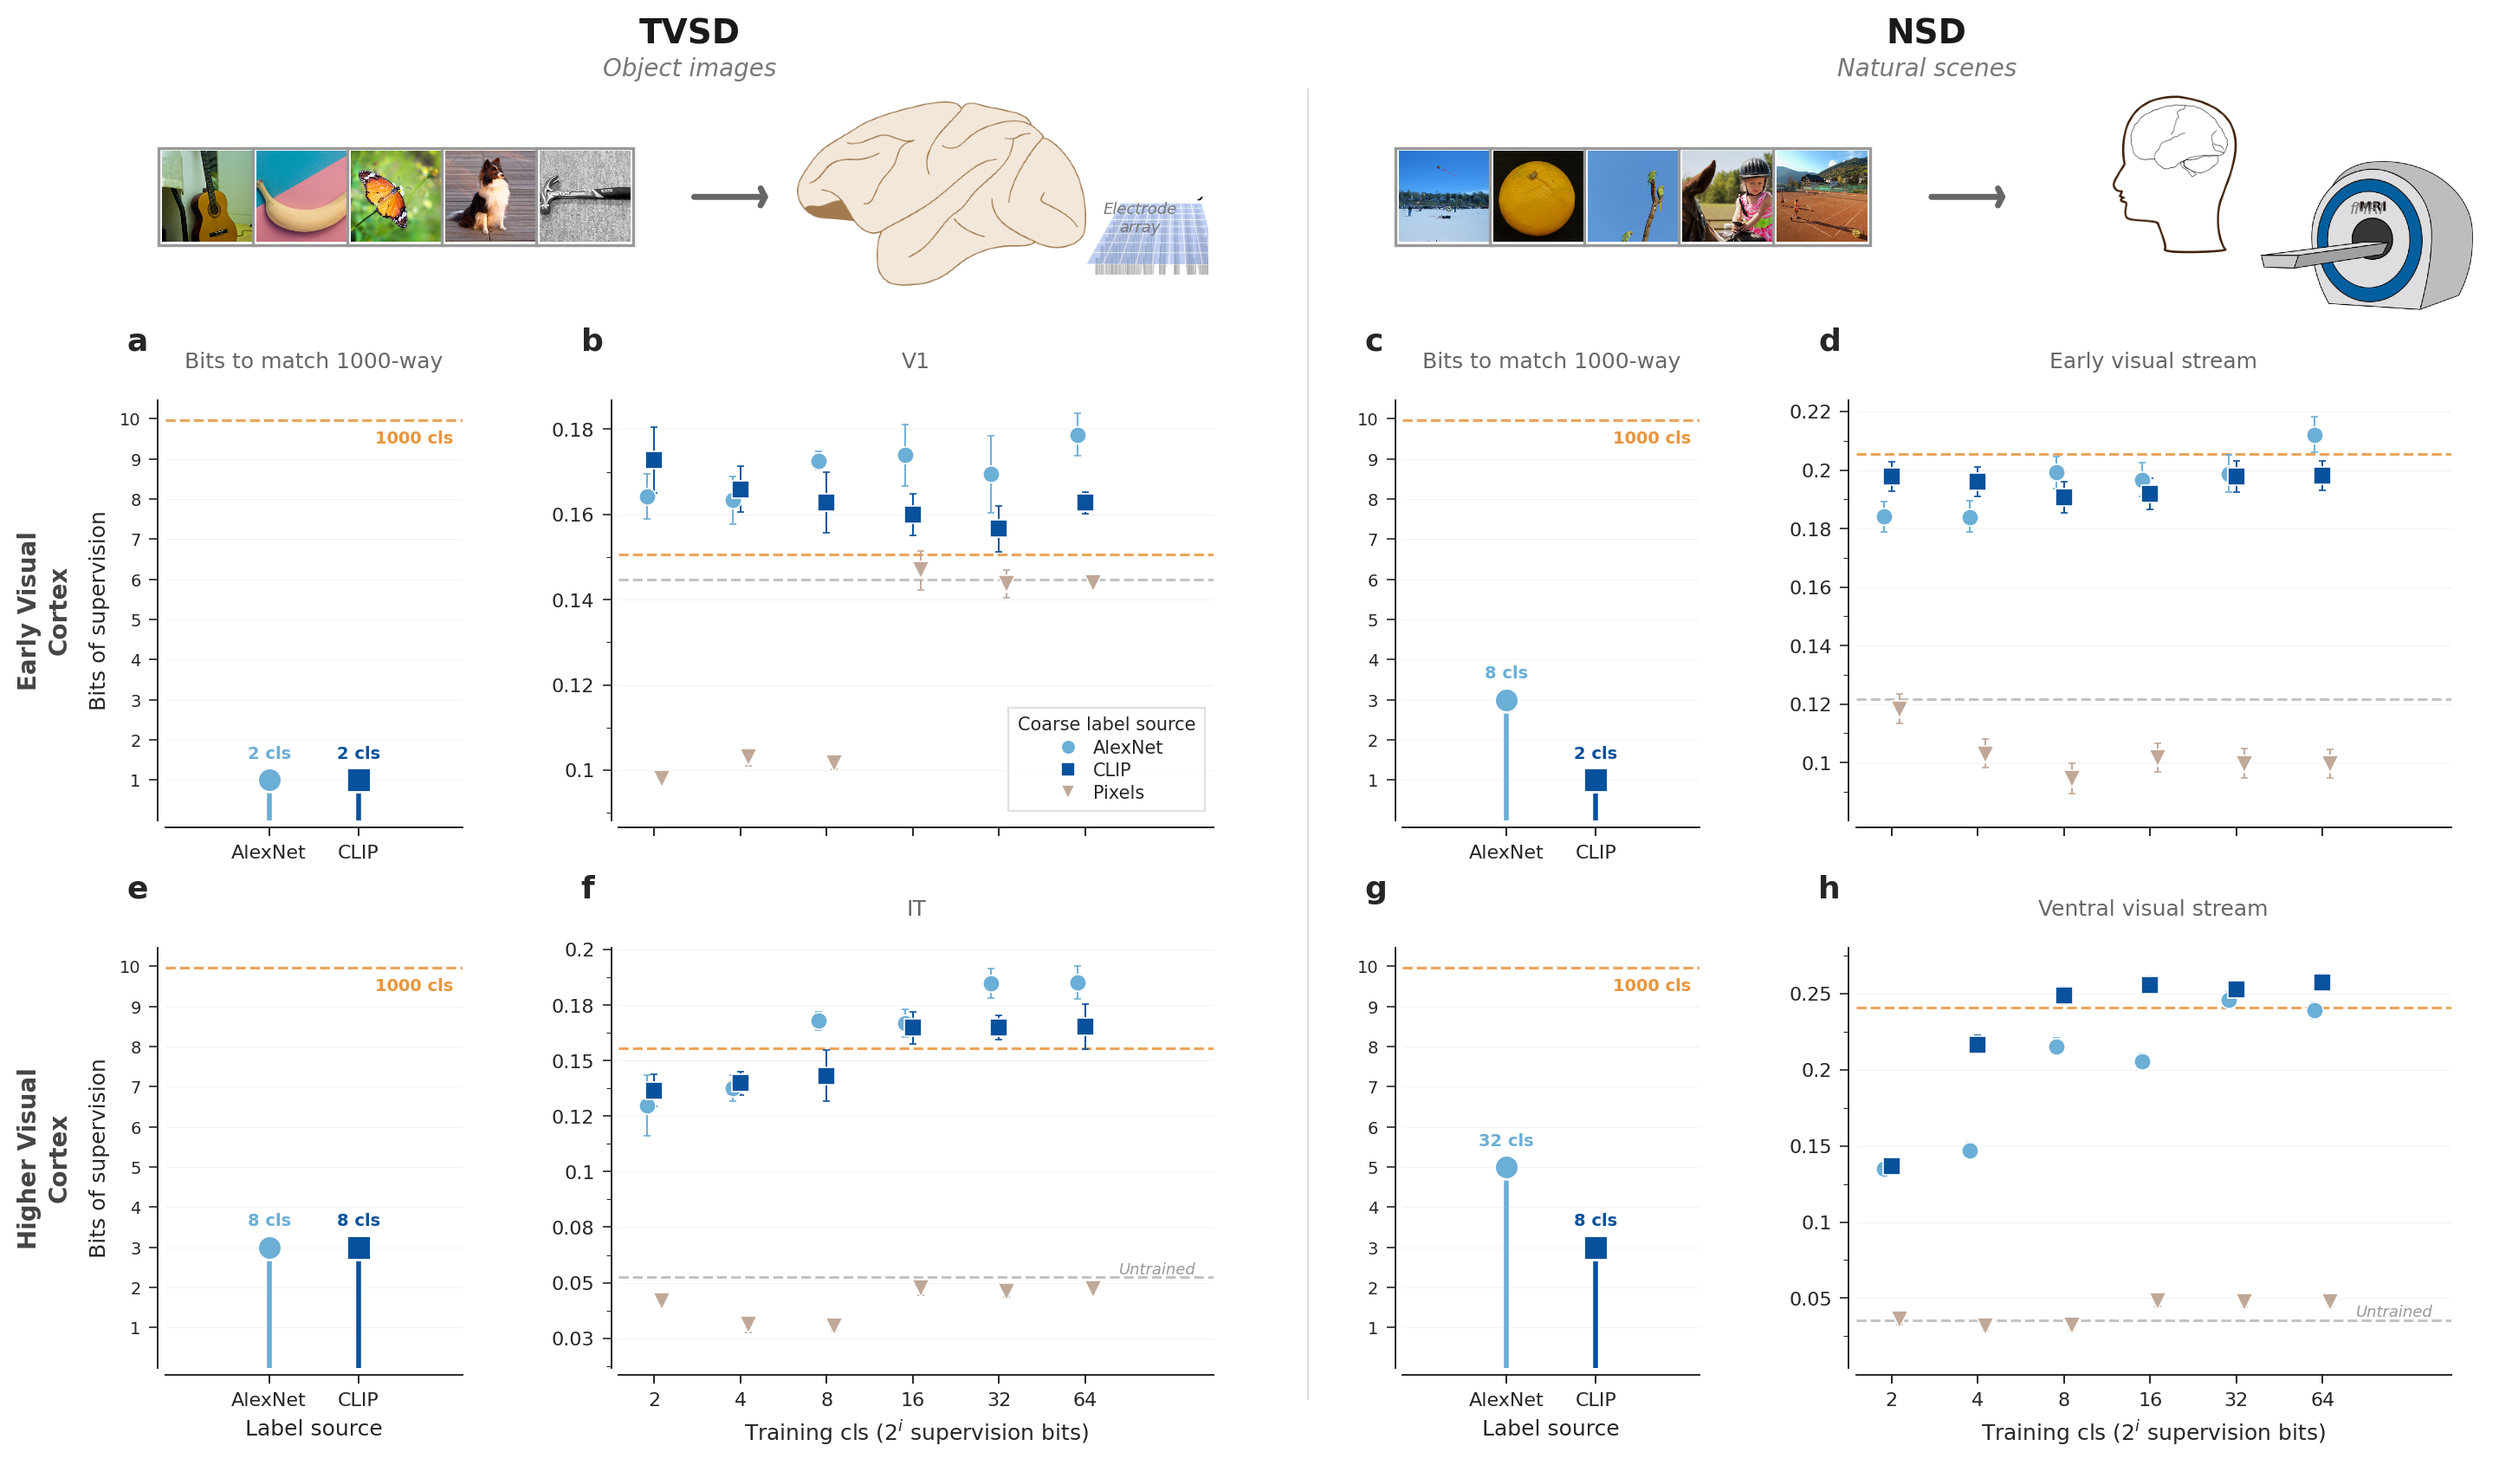
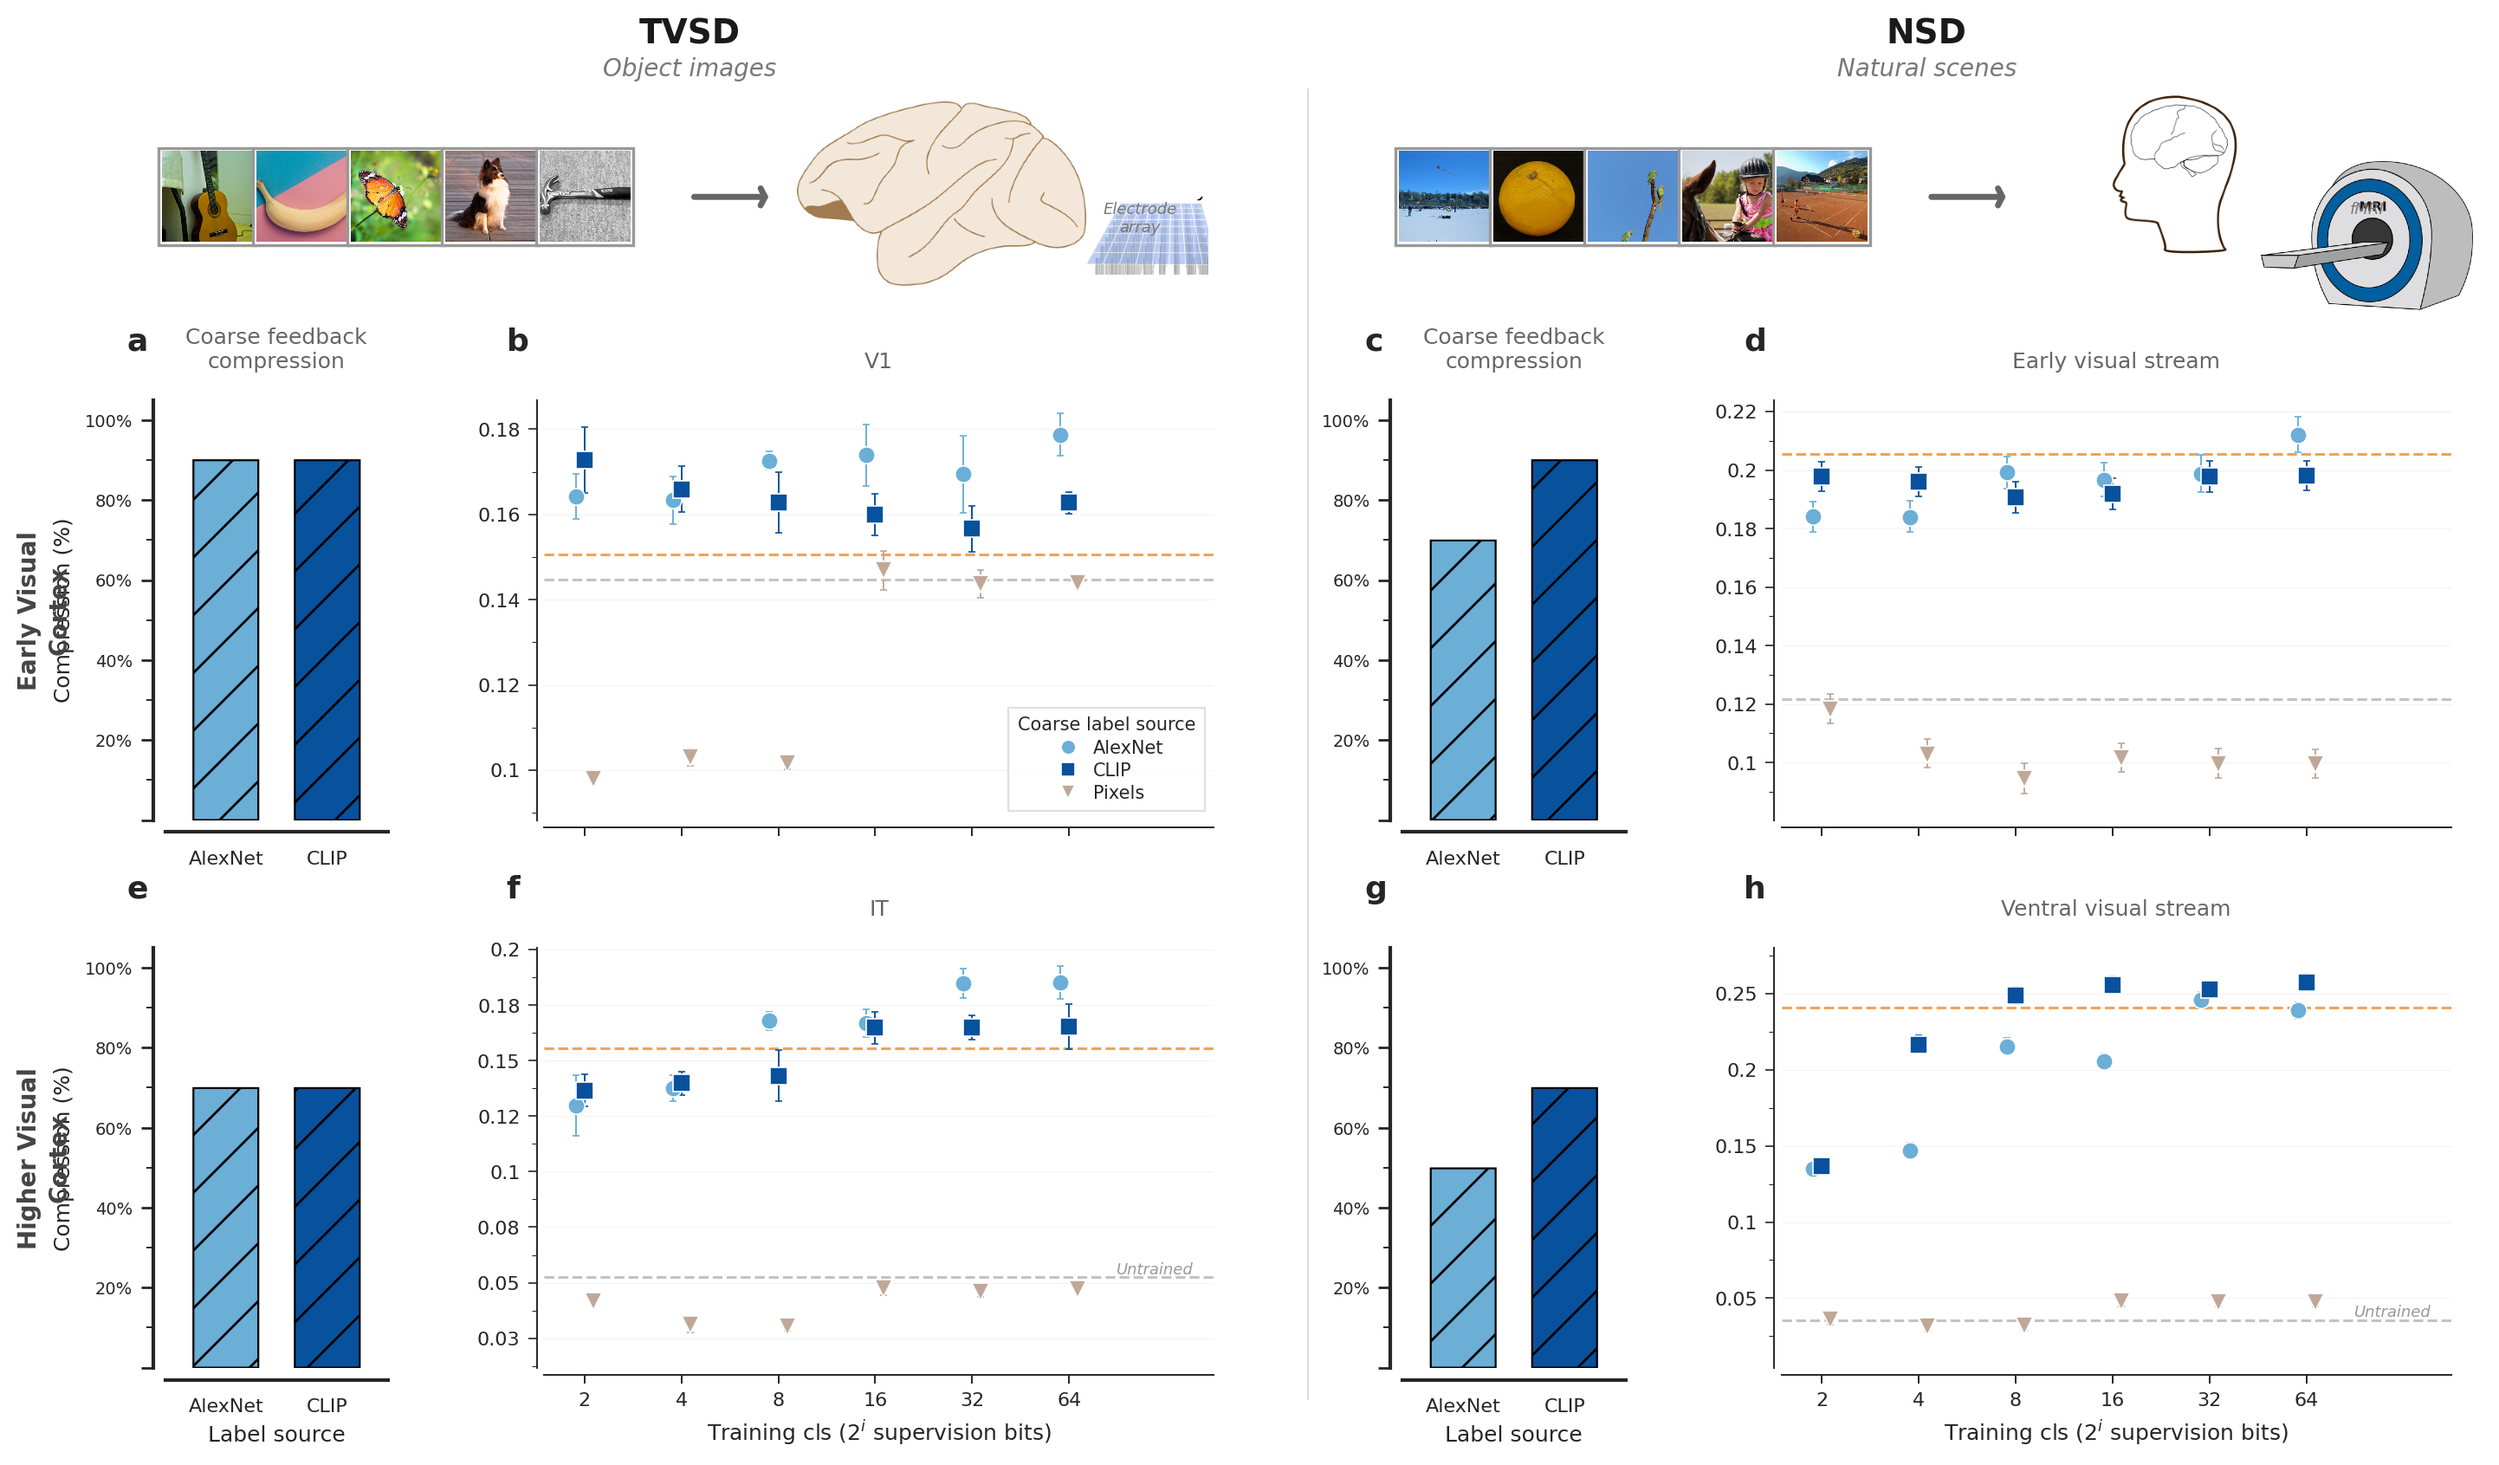
🎨 Replace bits-to-match lollipops with feedback coarseness margin bar plots in fig3
Rewrite panel_bits.py to show FCM (%) using NeurIPS-style rounded bars
with hatching and thick spines. Narrow FCM panels to 25% width, giving
75% to raw scatter panels.

diff --git a/manuscript/figures/fig3/panel_bits.py b/manuscript/figures/fig3/panel_bits.py
@@ -1,19 +1,28 @@
-"""Panel renderer: minimum bits of supervision to match 1000-way alignment."""
+"""Panel renderer: feedback coarseness margin (FCM) as rounded bar plot.
+
+FCM = (1 - log2(k*) / log2(1000)) * 100%, where k* is the minimum number
+of training classes whose alignment CI overlaps the 1000-way baseline.
+Higher FCM = the feedback signal can be coarser while preserving alignment.
+
+Visual style adapted from experiments/neurips_2025/fig2/bar_plot_nsd.py.
+"""
 
 import sys
 
 import numpy as np
+import matplotlib.pyplot as plt
+import matplotlib.patches as mpatches
 import seaborn as sns
-from matplotlib.ticker import FixedLocator, FuncFormatter
+from matplotlib.ticker import MultipleLocator, AutoMinorLocator, FuncFormatter
 
 sys.path.insert(0, "manuscript/figures/fig3")
 from shared import (
-    COARSE_CFGS, ARCH_STYLE, BASELINE_1K_COLOR,
+    COARSE_CFGS, ARCH_STYLE,
     fetch_baseline_ci, fetch_coarse_ci,
 )
 
-# Architectures shown in bits panels (no Pixels)
-BITS_ARCHS = [
+# Architectures shown in FCM panels (no Pixels)
+FCM_ARCHS = [
     ("alexnet", "pca_labels_alexnet", "AlexNet"),
     ("clip",    "pca_labels_clip",    "CLIP"),
 ]
@@ -34,71 +43,84 @@ def _find_min_bits(dataset, folder, region, bl_ci_low):
     return np.nan
 
 
-def plot_bits(ax, dataset, region, show_ylabel=True, show_xlabel=True):
-    """Lollipop chart: bits of supervision needed to match 1000-way, per architecture."""
+def plot_fcm(ax, dataset, region, show_ylabel=True, show_xlabel=True):
+    """Rounded bar chart: feedback coarseness margin per label source.
+
+    Style matches NeurIPS 2025 bar plots (FancyBboxPatch with rounded corners,
+    hatching, thick spines).
+    """
     bl_mean, bl_ci_low, _ = fetch_baseline_ci(dataset, region)
     if np.isnan(bl_mean) or bl_mean == 0:
         ax.text(0.5, 0.5, "No data", ha="center", va="center",
                 transform=ax.transAxes, fontsize=7, color="#888")
         return
 
-    bits_vals = []
-    for arch_key, folder, display in BITS_ARCHS:
-        bits = _find_min_bits(dataset, folder, region, bl_ci_low)
-        bits_vals.append((arch_key, display, bits))
+    fcm_vals = []
+    for arch_key, folder, display in FCM_ARCHS:
+        min_bits = _find_min_bits(dataset, folder, region, bl_ci_low)
+        if np.isnan(min_bits):
+            fcm_vals.append((arch_key, display, np.nan))
+        else:
+            fcm = (1 - min_bits / BASELINE_BITS) * 100
+            fcm_vals.append((arch_key, display, fcm))
 
-    # Place lollipops close together, centered in the panel
-    x_pos = np.array([0.35, 0.65])
+    positions = np.arange(len(fcm_vals))
+    bar_w = 0.6
 
-    for i, (arch_key, display, h) in enumerate(bits_vals):
+    # Set hatch color to grey (NeurIPS style)
+    original_hatch_color = plt.rcParams.get("hatch.color")
+    plt.rcParams["hatch.color"] = "grey"
+
+    for i, (arch_key, display, fcm) in enumerate(fcm_vals):
         c = ARCH_STYLE[arch_key]["color"]
-        marker = ARCH_STYLE[arch_key]["marker"]
-        if np.isnan(h):
-            ax.text(x_pos[i], 1.5, "N/A", ha="center", va="bottom",
+        if np.isnan(fcm):
+            ax.text(positions[i], 5, "N/A", ha="center", va="bottom",
                     fontsize=7, color="#999", fontstyle="italic")
             continue
-        # Stem
-        ax.plot([x_pos[i], x_pos[i]], [0, h], color=c,
-                linewidth=2.0, solid_capstyle="round", zorder=3)
-        # Dot
-        ax.plot(x_pos[i], h, marker=marker, color=c, markersize=10,
-                markeredgecolor="white", markeredgewidth=1.0, zorder=4)
+        x0 = positions[i] - bar_w / 2
+        rect = mpatches.FancyBboxPatch(
+            (x0, 0), bar_w, fcm,
+            boxstyle=mpatches.BoxStyle("Round", pad=0.02, rounding_size=0.1),
+            facecolor=c, edgecolor="black",
+            linewidth=0.8, hatch="/", mutation_aspect=0.05, zorder=3,
+        )
+        ax.add_patch(rect)
 
-    # Class count labels above each lollipop, in arch color
-    for i, (arch_key, _, h) in enumerate(bits_vals):
-        if np.isnan(h):
-            continue
-        c = ARCH_STYLE[arch_key]["color"]
-        n_classes = int(2 ** h)
-        ax.text(x_pos[i], h + 0.45, f"{n_classes} cls",
-                ha="center", va="bottom", fontsize=7,
-                fontweight="semibold", color=c, zorder=5)
+    # Restore hatch color
+    if original_hatch_color is not None:
+        plt.rcParams["hatch.color"] = original_hatch_color
 
-    # 1000-way reference line at top with label
-    ax.axhline(BASELINE_BITS, color=BASELINE_1K_COLOR, linestyle="--",
-               linewidth=1.1, alpha=0.85, zorder=2)
-    ax.text(0.97, BASELINE_BITS - 0.25, "1000 cls",
-            ha="right", va="top", fontsize=7, fontweight="semibold",
-            color=BASELINE_1K_COLOR, zorder=5)
-
-    # X-axis: architecture labels, centered under each lollipop
-    ax.set_xlim(0, 1)
-    ax.set_xticks(x_pos)
-    ax.set_xticklabels([d for _, d, _ in bits_vals], fontsize=8)
-    ax.tick_params(axis="x", length=3.5, width=0.7)
+    # ── X-axis ──
+    ax.set_xticks(positions)
+    ax.set_xticklabels([d for _, d, _ in fcm_vals], fontsize=8)
+    ax.tick_params(axis="x", direction="out", bottom=False, top=False,
+                   length=4, width=1.0)
+    ax.set_xlim(-0.6, len(fcm_vals) - 0.4)
     if show_xlabel:
         ax.set_xlabel("Label source", fontsize=9, labelpad=4)
 
-    # Y-axis: consistent 0–10.5, integer ticks 1–10
-    ax.set_ylim(0, BASELINE_BITS + 0.5)
-    ax.yaxis.set_major_locator(FixedLocator(range(1, 11)))
-    ax.yaxis.set_major_formatter(FuncFormatter(lambda v, _: str(int(v))))
-    ax.tick_params(axis="y", which="major", direction="out", length=3.5, width=0.6,
-                   labelsize=7)
-    ax.yaxis.grid(True, which="major", color="#F0F0F0", linewidth=0.3, zorder=0)
+    # ── Y-axis ──
+    ax.set_ylim(0, 105)
+    ax.yaxis.set_major_locator(MultipleLocator(20))
+    ax.yaxis.set_minor_locator(AutoMinorLocator(2))
+
+    def _pct_formatter(v, _):
+        if np.isclose(v, 0):
+            return ""
+        return f"{int(v)}%"
+
+    ax.yaxis.set_major_formatter(FuncFormatter(_pct_formatter))
+    ax.tick_params(axis="y", which="major", direction="out", length=5,
+                   width=1.0, labelsize=7)
+    ax.tick_params(axis="y", which="minor", direction="out", length=3,
+                   width=0.7)
 
     if show_ylabel:
-        ax.set_ylabel("Bits of supervision", fontsize=9, labelpad=4)
+        ax.set_ylabel("Compression (%)", fontsize=9, labelpad=4)
     else:
         ax.set_ylabel("")
-    sns.despine(ax=ax, right=True, top=True, offset=3)
+
+    # ── Spines (NeurIPS style: thick bottom + left) ──
+    sns.despine(ax=ax, right=True, top=True, offset=5)
+    ax.spines["bottom"].set_linewidth(1.5)
+    ax.spines["left"].set_linewidth(1.5)

diff --git a/manuscript/figures/fig3/figure3.py b/manuscript/figures/fig3/figure3.py
@@ -30,7 +30,7 @@ from fig_utils import MARKER_SIZE, EDGE_COLOR, EDGE_WIDTH, setup_style
 sys.path.insert(0, "manuscript/figures/fig3")
 from shared import ARCHITECTURES, ARCH_STYLE
 from panel_raw import plot_raw
-from panel_bits import plot_bits
+from panel_bits import plot_fcm
 from schematic_utils import draw_tvsd_schematic, draw_nsd_schematic, add_brain_inset
 
 OUTPUT_DIR = "manuscript/figures/fig3"
@@ -59,9 +59,9 @@ def main():
 
     # Inner grids: bits panels at 50% width of raw panels
     inner_tvsd = [gridspec.GridSpecFromSubplotSpec(1, 2, subplot_spec=outer[row, 0],
-                  wspace=0.35, width_ratios=[0.5, 1]) for row in (1, 2)]
+                  wspace=0.35, width_ratios=[0.25, 0.75]) for row in (1, 2)]
     inner_nsd = [gridspec.GridSpecFromSubplotSpec(1, 2, subplot_spec=outer[row, 1],
-                 wspace=0.35, width_ratios=[0.5, 1]) for row in (1, 2)]
+                 wspace=0.35, width_ratios=[0.25, 0.75]) for row in (1, 2)]
 
     # ── Schematics (row 0) ──
     ax_tvsd_schem = fig.add_subplot(outer[0, 0])
@@ -75,13 +75,13 @@ def main():
     # Columns: 0=bits, 1=raw (TVSD); 2=bits, 3=raw (NSD)
     panel_specs = [
         # (row, col, dataset, region, plot_fn, ylabel, xlabel, inner_grid, inner_col, extra_kw)
-        (1, 0, "tvsd", "V1",                    plot_bits, True,  False, inner_tvsd[0], 0, {}),
+        (1, 0, "tvsd", "V1",                    plot_fcm,  True,  False, inner_tvsd[0], 0, {}),
         (1, 1, "tvsd", "V1",                    plot_raw,  False, False, inner_tvsd[0], 1, {}),
-        (1, 2, "nsd",  "early visual stream",   plot_bits, False, False, inner_nsd[0],  0, {}),
+        (1, 2, "nsd",  "early visual stream",   plot_fcm,  False, False, inner_nsd[0],  0, {}),
         (1, 3, "nsd",  "early visual stream",   plot_raw,  False, False, inner_nsd[0],  1, {}),
-        (2, 0, "tvsd", "IT",                    plot_bits, True,  True,  inner_tvsd[1], 0, {}),
+        (2, 0, "tvsd", "IT",                    plot_fcm,  True,  True,  inner_tvsd[1], 0, {}),
         (2, 1, "tvsd", "IT",                    plot_raw,  False, True,  inner_tvsd[1], 1, {"show_untrained_label": True}),
-        (2, 2, "nsd",  "ventral visual stream", plot_bits, False, True,  inner_nsd[1],  0, {}),
+        (2, 2, "nsd",  "ventral visual stream", plot_fcm,  False, True,  inner_nsd[1],  0, {}),
         (2, 3, "nsd",  "ventral visual stream", plot_raw,  False, True,  inner_nsd[1],  1, {"show_untrained_label": True}),
     ]
 
@@ -116,8 +116,8 @@ def main():
 
     # ── Sub-column labels ──
     sub_labels = {
-        (1, 0): "Bits to match 1000-way",  (1, 1): "V1",
-        (1, 2): "Bits to match 1000-way",  (1, 3): "Early visual stream",
+        (1, 0): "Coarse feedback\ncompression",  (1, 1): "V1",
+        (1, 2): "Coarse feedback\ncompression",  (1, 3): "Early visual stream",
         (2, 1): "IT",
         (2, 3): "Ventral visual stream",
     }
